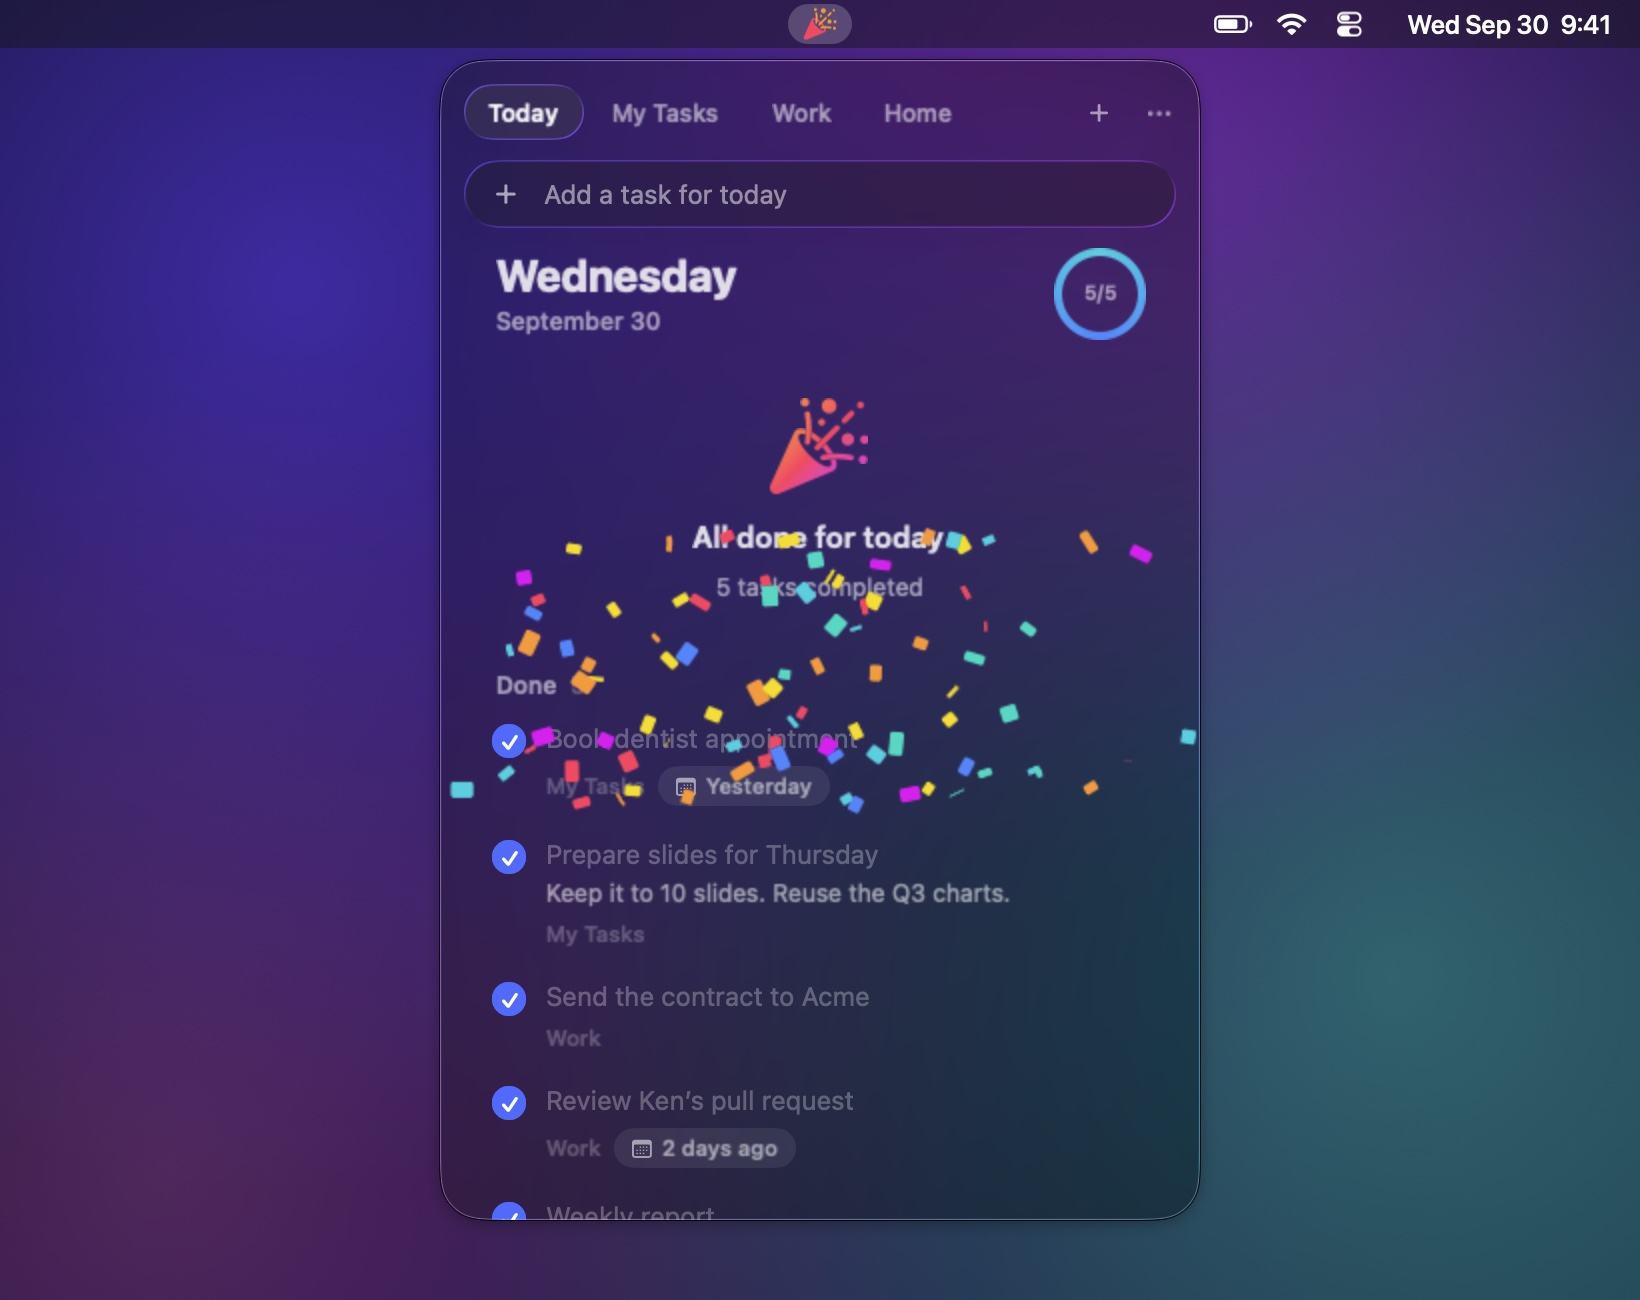
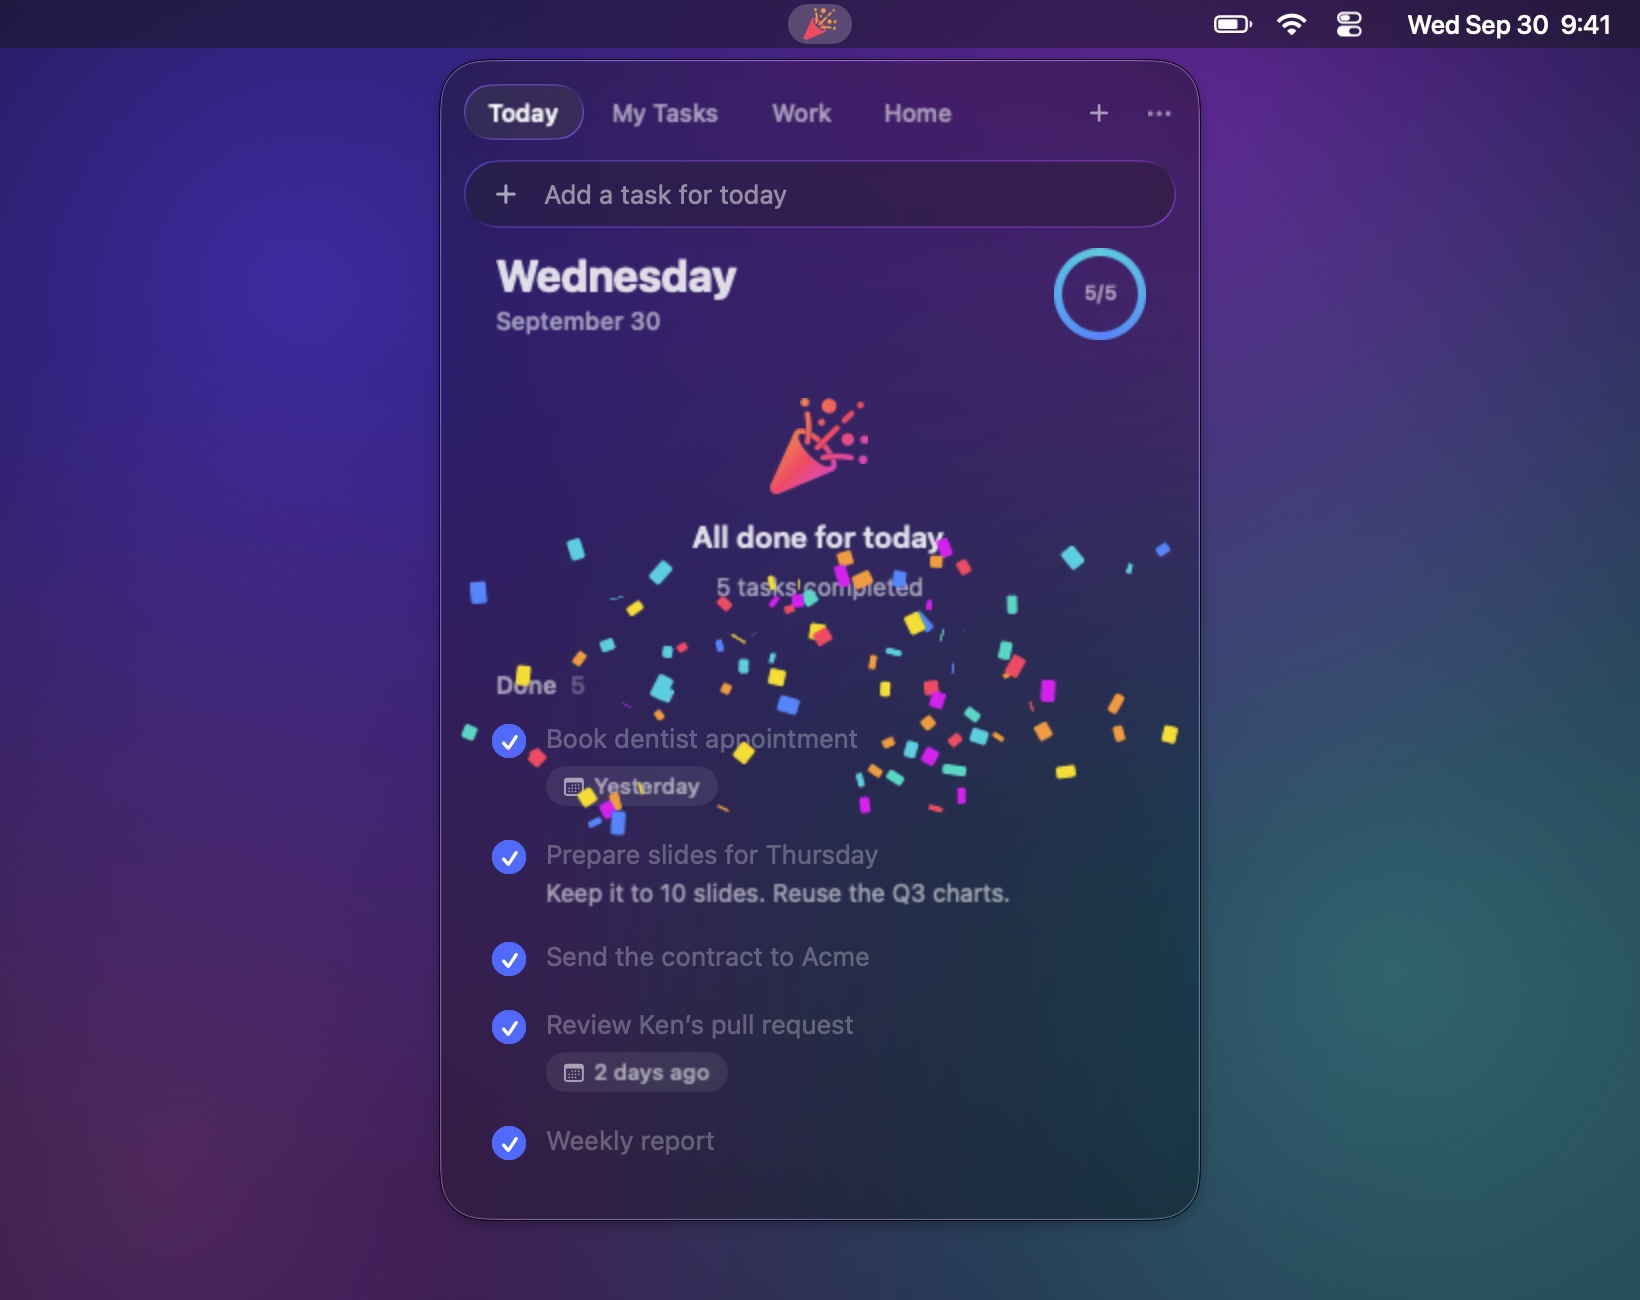
Today画面のタスクにリスト名を表示しないようにする

diff --git a/Sources/GoogleTasksClient/TaskListView.swift b/Sources/GoogleTasksClient/TaskListView.swift
@@ -105,7 +105,7 @@ struct TaskRow: View {
     let task: TaskItem
     let depth: Int
     let listID: String
-    /// In the Today tab: rows come from several lists, so the list is named and structure edits are off.
+    /// In the Today tab: rows come from several lists, so structure edits (subtasks, nesting) are off.
     var inToday = false
     @ObservedObject private var prefs = Preferences.shared
 
@@ -198,14 +198,8 @@ struct TaskRow: View {
         }
 
         let links = (task.links ?? []).filter { $0.link != nil }
-        if task.dueDate != nil || !links.isEmpty || expanded || inToday {
+        if showsDueChip || !links.isEmpty || expanded {
             HStack(spacing: 6) {
-                if inToday {
-                    Text(store.listTitle(listID))
-                        .font(.system(size: 11, weight: .medium))
-                        .foregroundStyle(.tertiary)
-                        .lineLimit(1)
-                }
                 if showsDueChip, let due = task.dueDate {
                     DueChip(date: due, done: task.isCompleted) { if !task.isCompleted { pickingDate = true } }
                         .popover(isPresented: $pickingDate, arrowEdge: .bottom) { datePicker }

diff --git a/README.md b/README.md
@@ -29,7 +29,7 @@
 
   <img src="docs/menubar.png" width="360" alt="The menu bar item: a progress ring with the count, a check mark, and a party popper">
 
-- **Today, across lists.** Open it for one view of what's overdue, what's due today and what you've already done, each with the list it belongs to. Postpone to tomorrow with a right-click.
+- **Today, across lists.** Open it for one view of what's overdue, what's due today and what you've already done. Postpone to tomorrow with a right-click.
 - **Every list, too.** Each list is a tab. Add, edit and complete tasks. Drag to reorder, nest subtasks, set dates, write notes, move tasks between lists, and create or rename lists.
 - **Instant.** Edits show immediately and sync in the background, in order. Changes made elsewhere arrive within half a minute while the panel is open, and within five minutes in the menu bar.
 - **Liquid Glass**, in light and dark, from crystal clear to tinted.
